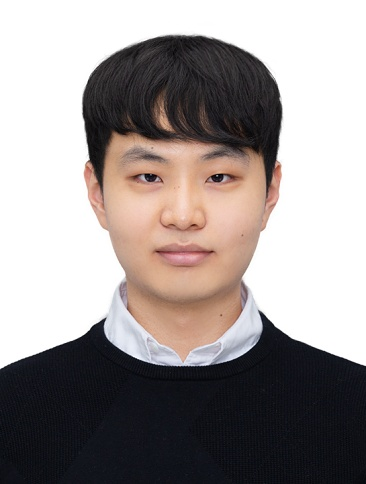
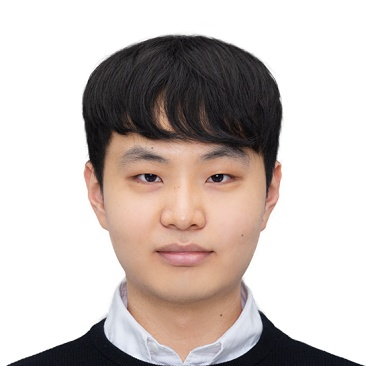
newprof

diff --git a/images/resize.py b/images/resize.py
@@ -1,0 +1,8 @@
+import cv2
+
+img = cv2.imread('profile.png')
+# import pdb; pdb.set_trace()
+H, W, _ = img.shape
+crop_img = img[0:W, 0:W]
+
+cv2.imwrite('profile2.png', crop_img)
